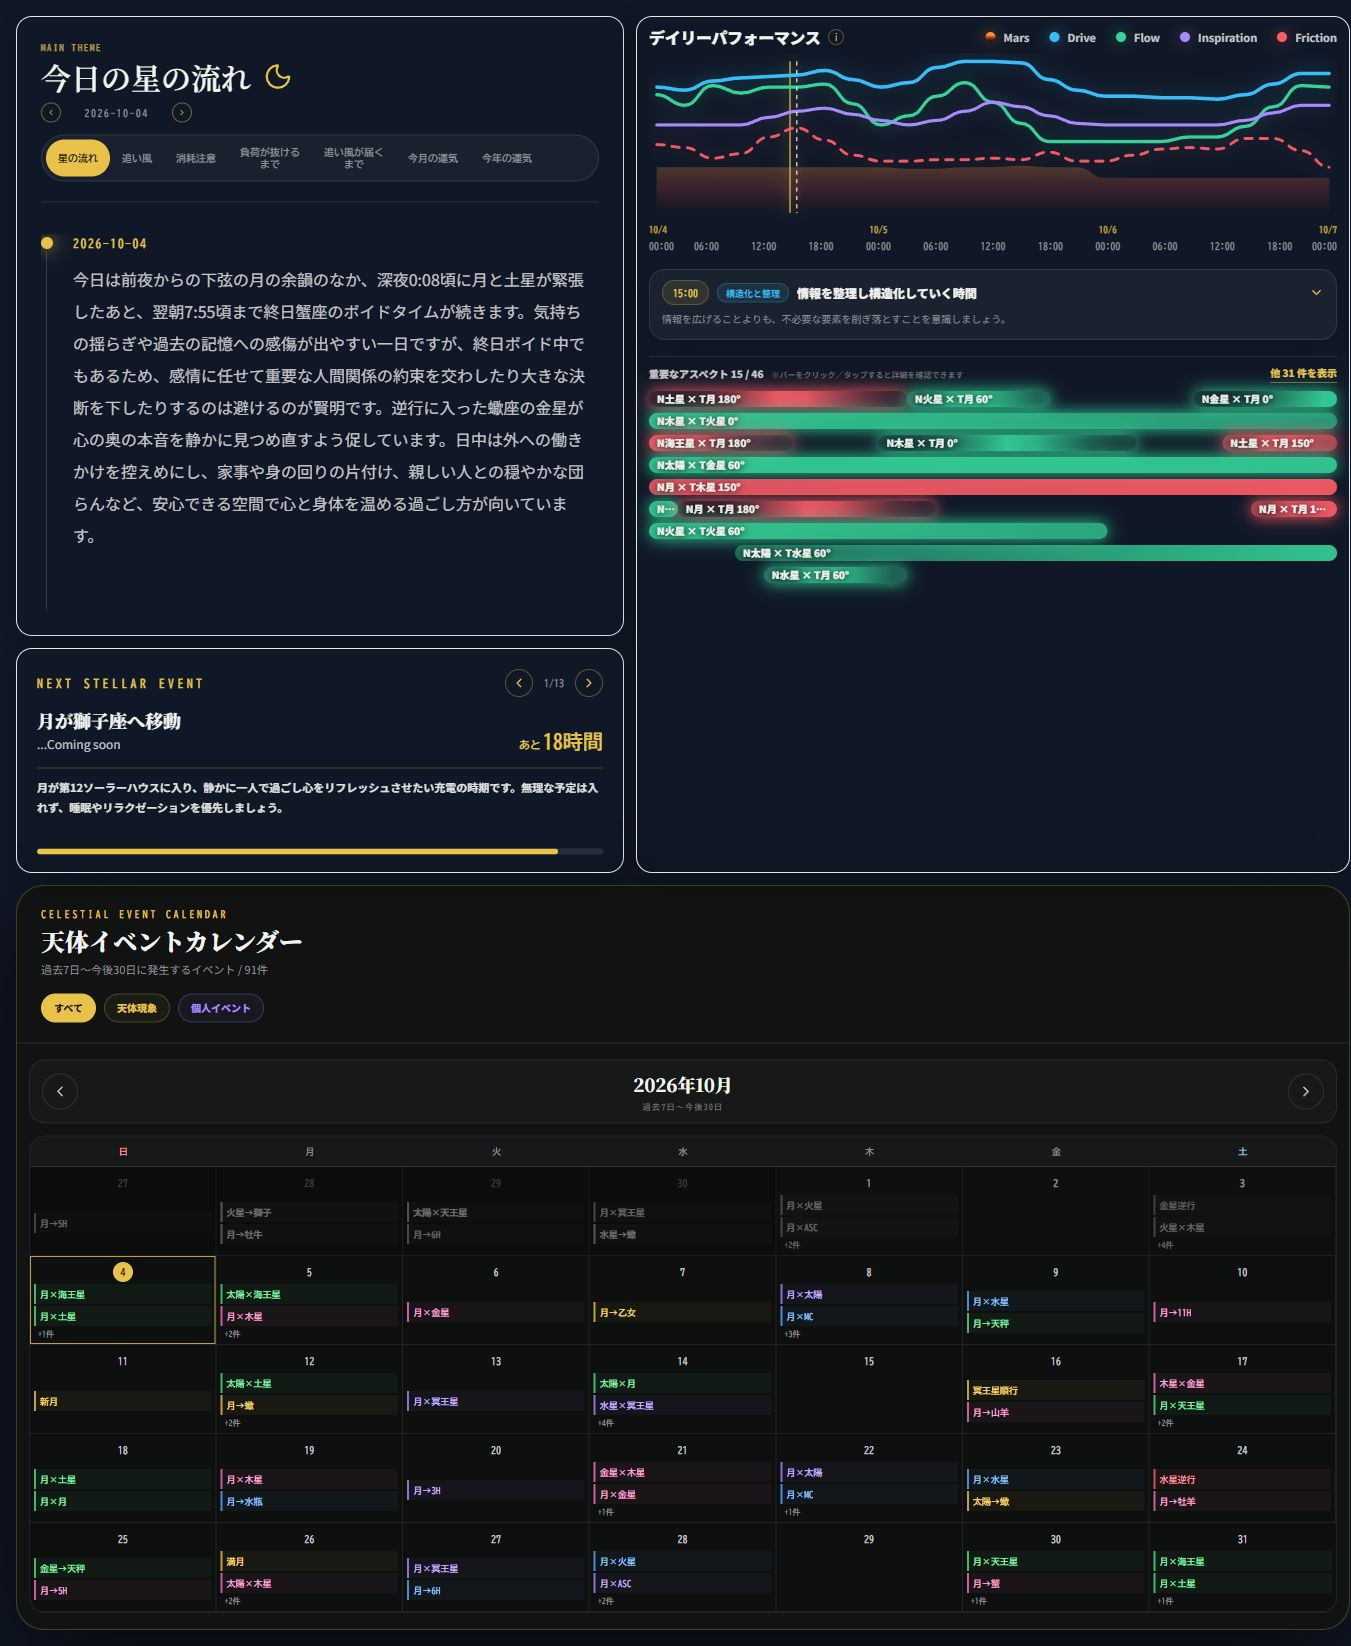
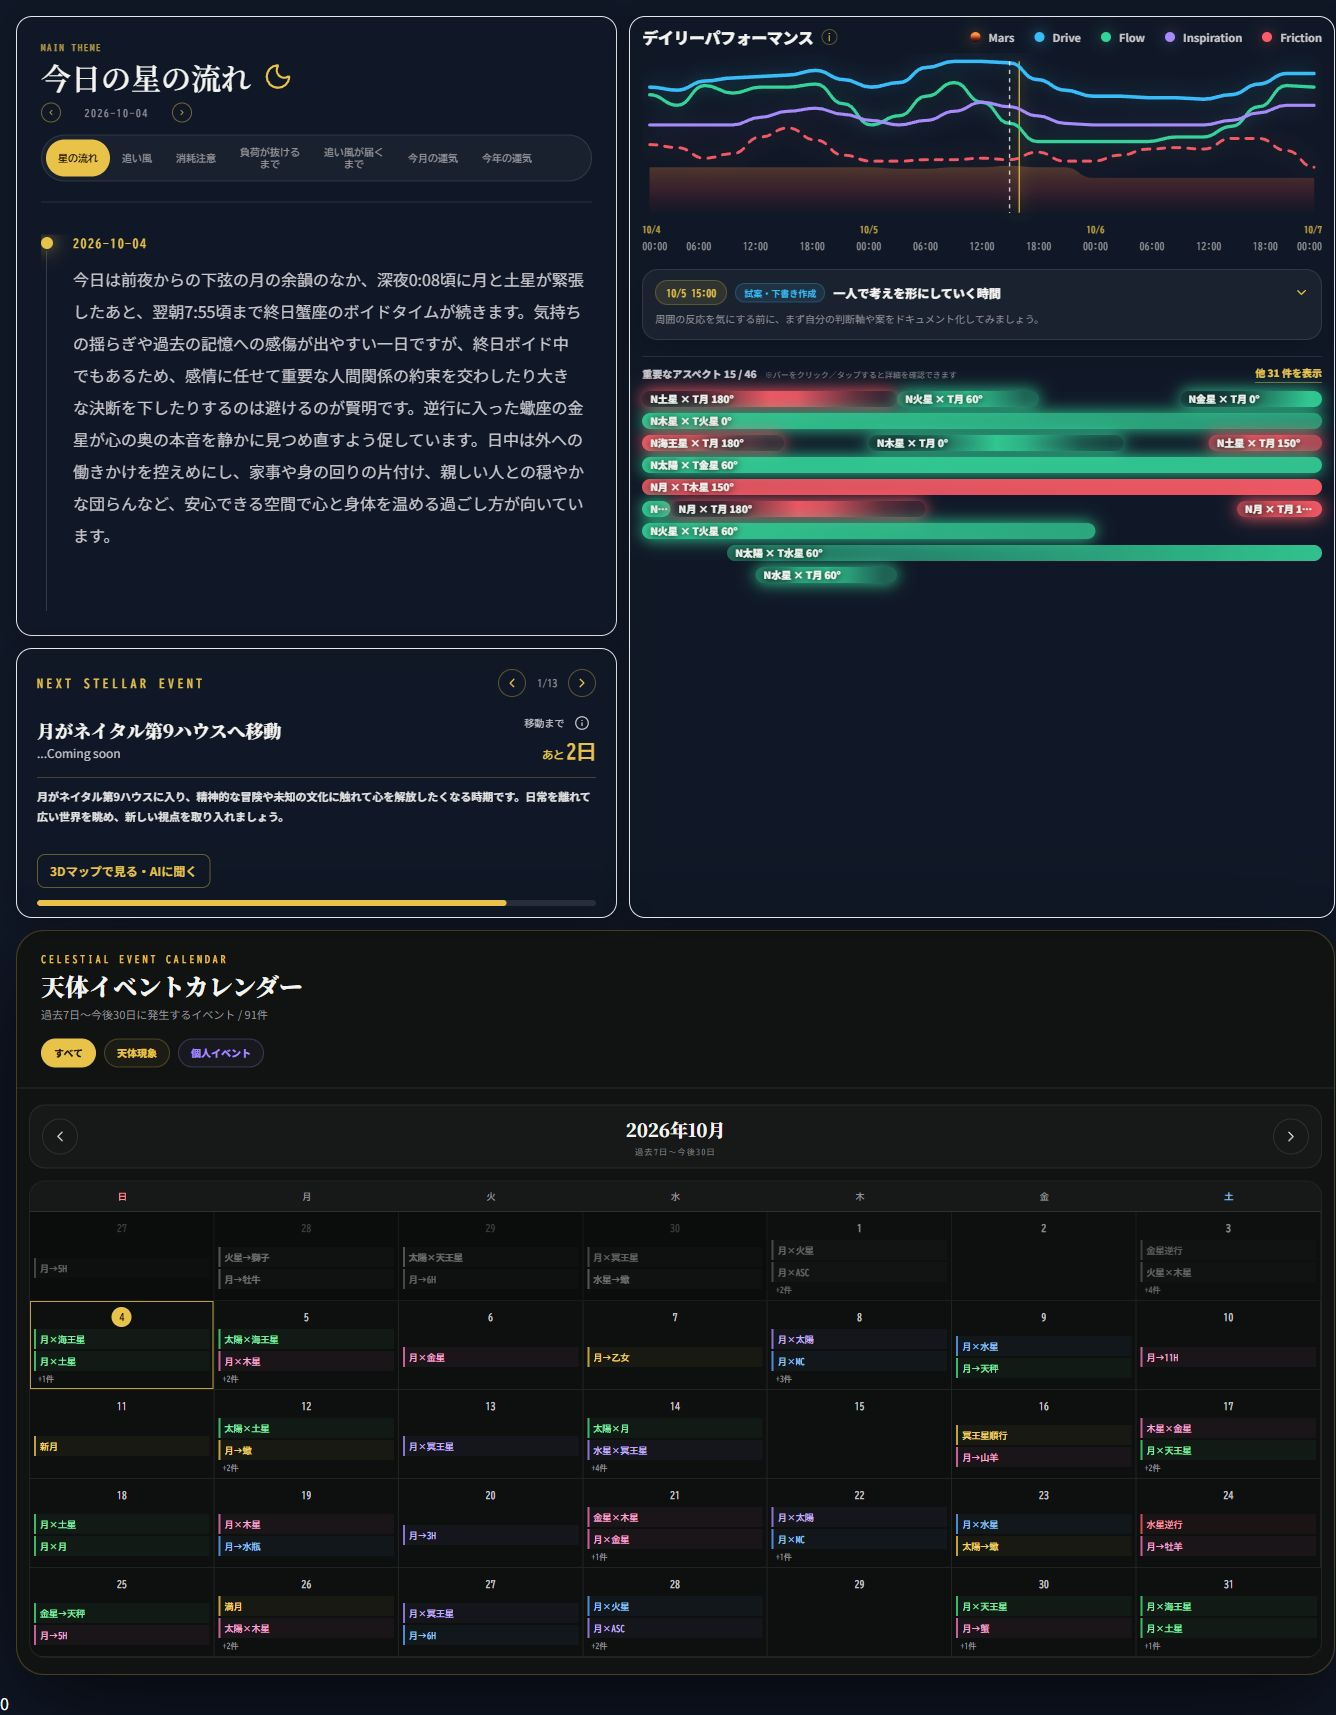
feat(v3): refresh free forecast preview screenshots

diff --git a/frontend/v3/forecast-preview.jsx b/frontend/v3/forecast-preview.jsx
@@ -17,8 +17,8 @@ export function ForecastPreview({ session, onHoroscope }) {
     <figure className="overflow-hidden rounded-xl border border-gold/25 bg-[#101827]">
       <figcaption className="border-b border-gold/20 px-4 py-3 text-xs leading-6 text-slate-300">サンプルの出生データによる表示例です。画像内のボタンやカレンダーは操作できません。</figcaption>
       <picture>
-        <source media="(max-width: 767px)" srcSet={mobilePreview} width="375" height="2118" />
-        <img src={desktopPreview} width="1351" height="1646" alt="有料版の日別画面。今日の星の流れ、時間帯ごとのデイリーパフォーマンスとアスペクト、天体イベントカレンダーの表示例。" className="block h-auto w-full" decoding="async" />
+        <source media="(max-width: 767px)" srcSet={mobilePreview} width="360" height="2187" />
+        <img src={desktopPreview} width="1336" height="1715" alt="有料版の日別画面。今日の星の流れ、デイリーパフォーマンス、Next Stellar Eventの補足と3Dマップ・AIへの導線、天体イベントカレンダーの表示例。" className="block h-auto w-full" decoding="async" />
       </picture>
     </figure>
     <div className="mt-6 rounded-xl border border-gold/25 bg-midnight/90 p-5 sm:p-7">
